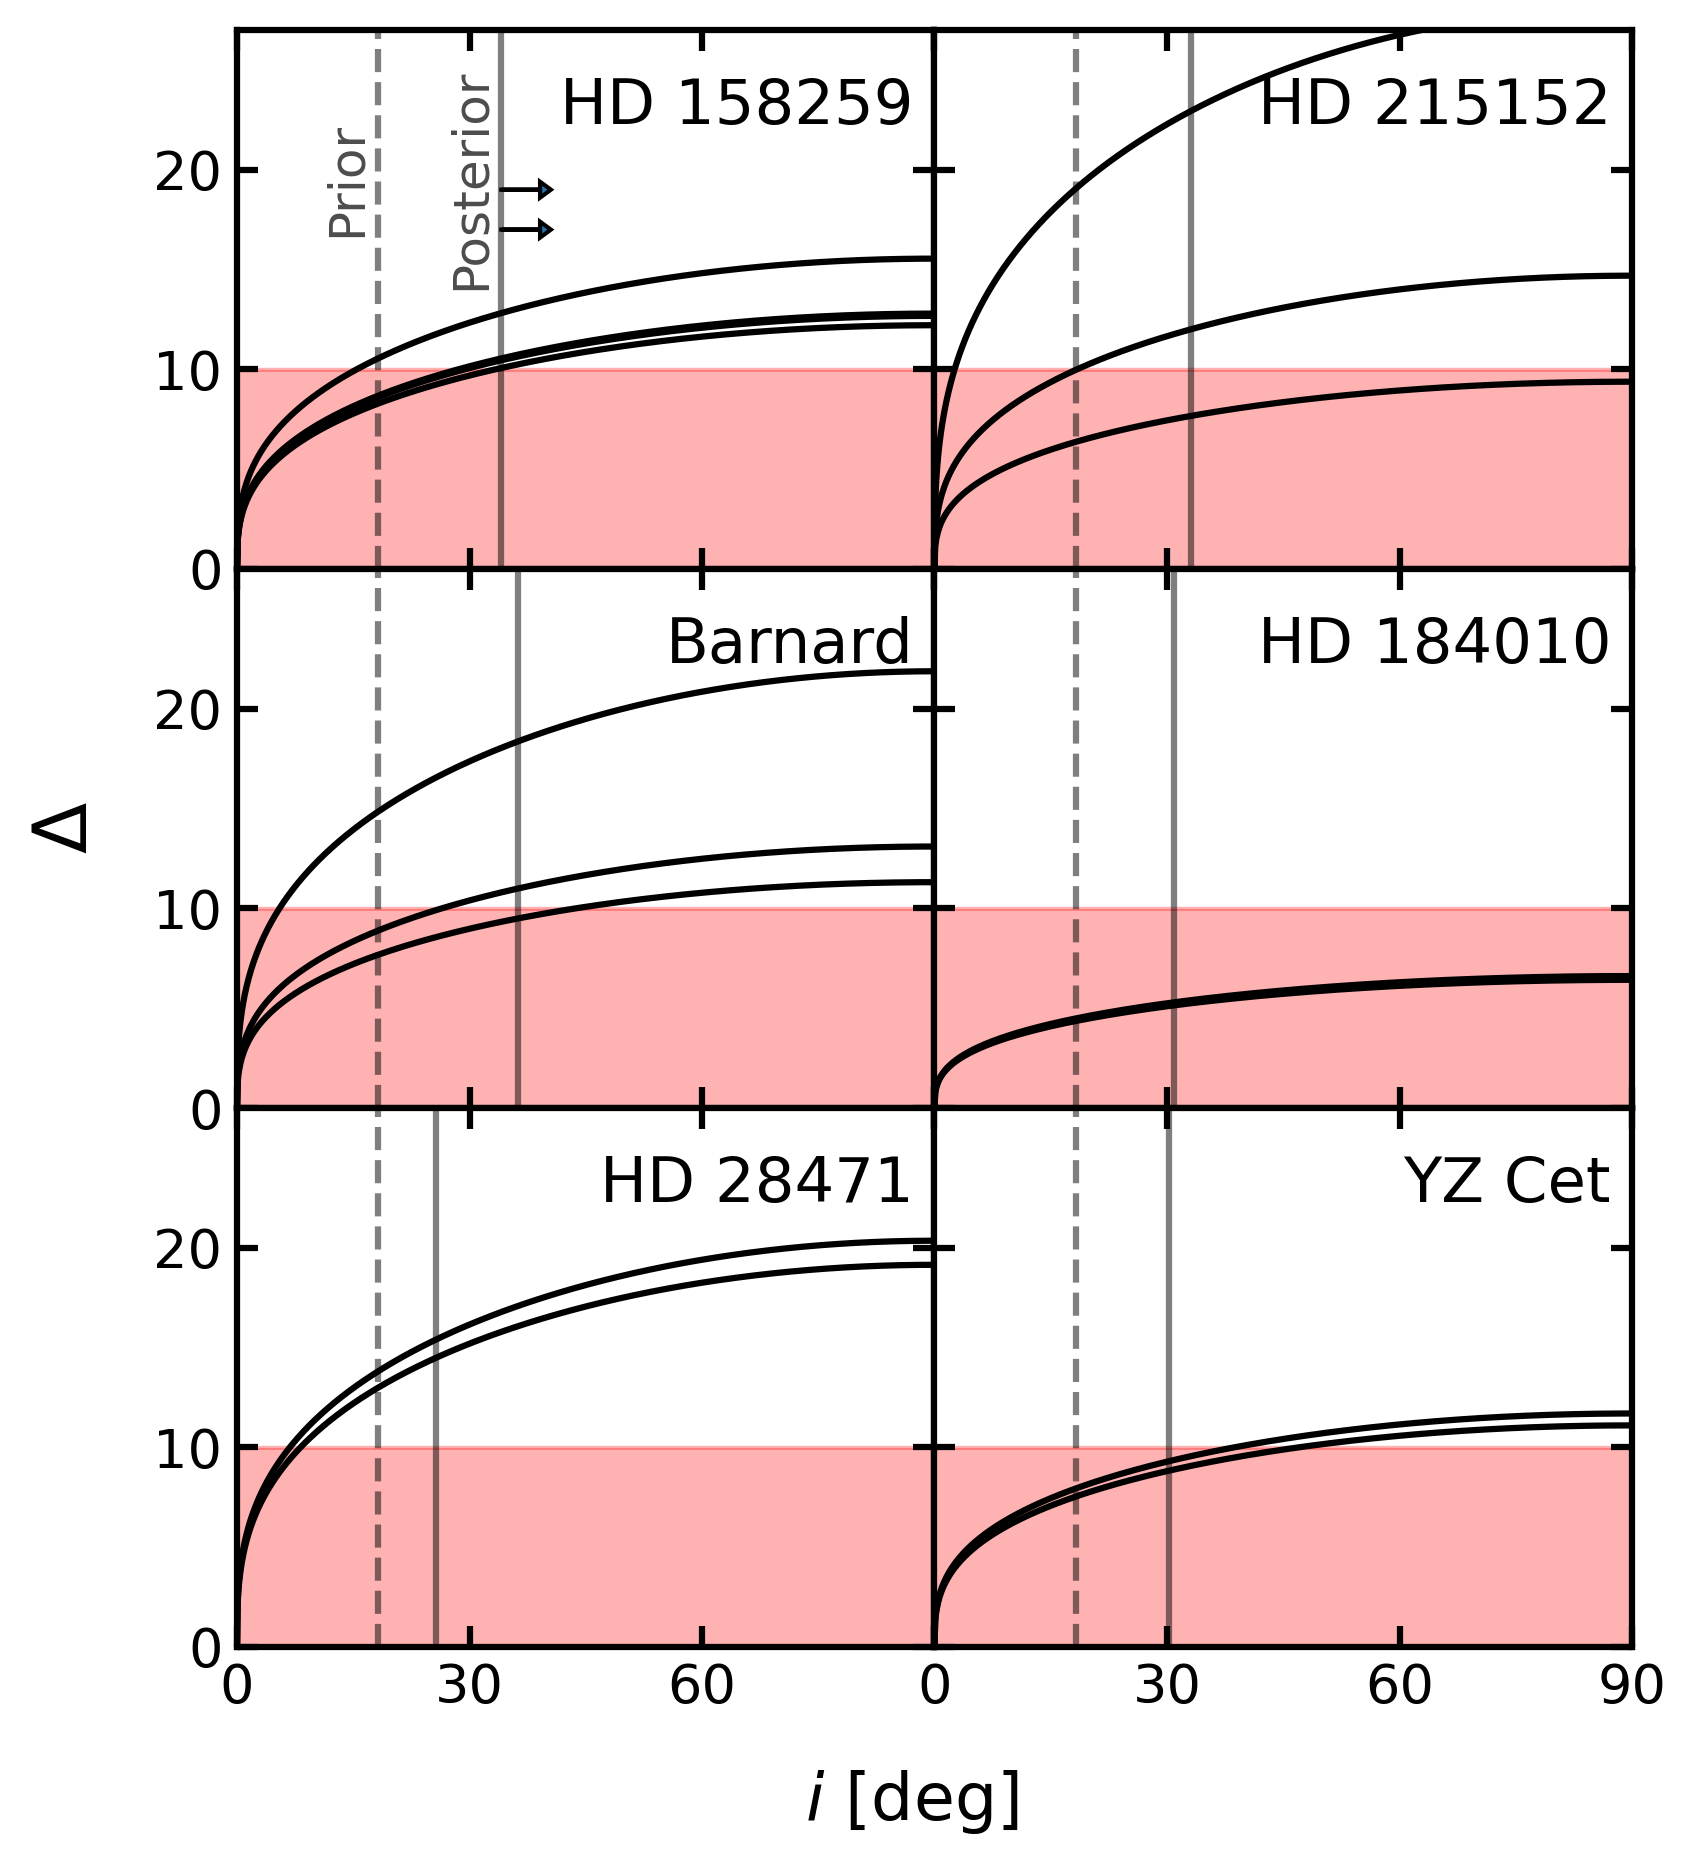
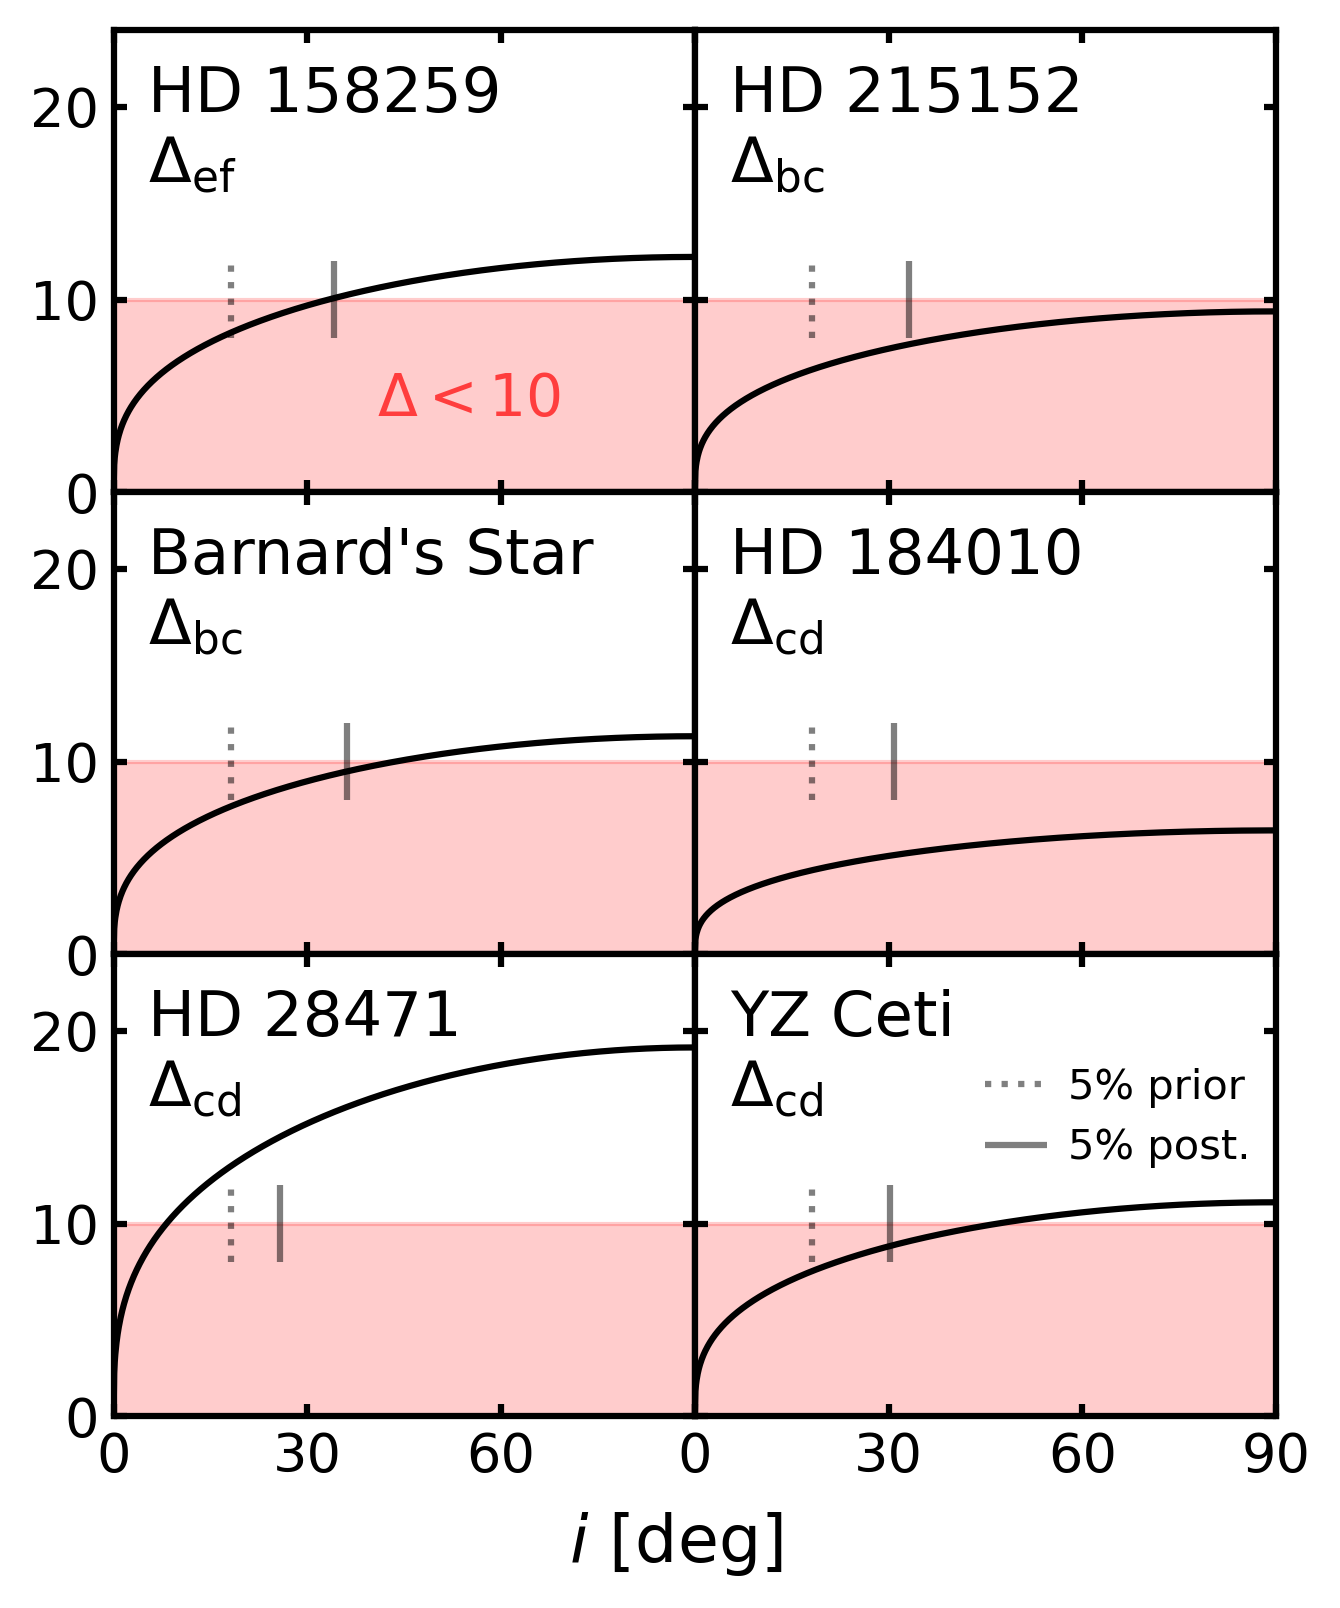
Tweak Hill stability plot

diff --git a/scripts/figs/plot_hillstability.py b/scripts/figs/plot_hillstability.py
@@ -81,12 +81,21 @@ def main():
     print("  Plotting...")
 
     fg, axs = plt.subplots(
-        3, 2, figsize=(6, 7), gridspec_kw={"hspace": 0.0, "wspace": 0.0}
+        3, 2, figsize=(5, 6), gridspec_kw={"hspace": 0.0, "wspace": 0.0}
     )
 
     i_deg = np.linspace(0, 90, 1000)
     sini_1_3 = np.sin(np.radians(i_deg)) ** (1 / 3)
-
+    Y_MAX = 24
+    TITLES = [
+        "HD 158259",
+        "HD 215152",
+        "Barnard's Star",
+        "HD 184010",
+        "HD 28471",
+        "YZ Ceti",
+    ]
+    TITLE_DICT = dict(zip(SYSTEMS, TITLES))
     for i, system in enumerate(SYSTEMS):
         ax = axs.flatten()[i]
         system_data = planets_data[planets_data["hostname"] == system]
@@ -97,27 +106,41 @@ def main():
         p_day = system_data["pl_orbper"].values
         a_au = (p_day / 365.25) ** (2 / 3) * (m_star / M_SUN) ** (1 / 3)
 
-        for (a1, a2), (m1, m2) in zip(
-            zip(a_au[:-1], a_au[1:]), zip(m_min[:-1], m_min[1:])
+        for n, ((a1, a2), (m1, m2)) in enumerate(
+            zip(zip(a_au[:-1], a_au[1:]), zip(m_min[:-1], m_min[1:]))
         ):
+            if n == 0:
+                delta_min = np.inf
+                closest_pair = (0, 1)
             Delta = Delta_factor(a1, a2, m1, m2, m_star)
-            ax.plot(i_deg, Delta * sini_1_3, color="k", lw=1.5)
+            if Delta < delta_min:
+                delta_min = Delta
+                closest_pair = (n, n + 1)
+
+        closest_planets = "".join(
+            [system_data.iloc[p].pl_name[-1] for p in list(closest_pair)]
+        )
+        title = TITLE_DICT[system] + "\n" + f"$\\Delta_{{\\rm {closest_planets}}}$"
+
+        ax.plot(i_deg, delta_min * sini_1_3, color="k", lw=1.5)
 
         ax.set_xlim(0, 90)
         ax.set_xticks([0, 30, 60, 90])
         ax.set_xticklabels([])
-        ax.set_ylim(0, 27)
+        ax.set_ylim(0, Y_MAX)
         ax.set_yticks([0, 10, 20])
 
-        # ax.axhline(10, color="k", ls="--", lw=1.5)
-        ax.fill_between(i_deg, 0, 10, color="r", alpha=0.3)
+        ax.fill_between(i_deg, 0, 10, color="r", alpha=0.2)
 
         inclination_limit = inclinations_5pc[system]
-        ax.vlines(inclination_limit, 0, 27, color="k", lw=1.5, alpha=0.5)
-        ax.vlines(PRIOR_5PC, 0, 27, color="k", ls="--", lw=1.5, alpha=0.5)
+        ax.vlines(
+            PRIOR_5PC, 8, 12, color="k", ls=":", lw=1.5, alpha=0.5, label="5% prior"
+        )
+        ax.vlines(
+            inclination_limit, 8, 12, color="k", lw=1.5, alpha=0.5, label="5% post."
+        )
 
-        title = system if system != "Barnard's star" else "Barnard"
-        ax.set_title(title, fontsize=15, loc="right", x=0.97, y=0.78)
+        ax.set_title(title, fontsize=15, ha="left", va="top", x=0.06, y=0.87)
 
     axs[-1, 0].set_xticks([0, 30, 60, 90], labels=["0", "30", "60", ""], fontsize=14)
     axs[-1, 1].set_xticks([0, 30, 60, 90], labels=["0", "30", "60", "90"], fontsize=14)
@@ -126,27 +149,32 @@ def main():
 
     for ax in axs.flatten():
         ax.tick_params(
-            length=5, labelsize=13, width=1.5, direction="in", top=True, right=True
+            length=3, labelsize=13, width=1.5, direction="in", top=True, right=True
         )
         for spine in ax.spines.values():
             spine.set_linewidth(1.5)
 
     # Label CINEMAS limits
-    ax = axs[0, 0]
-    ax.annotate(
-        "Posterior", xy=(27, 19.5), va="center", fontsize=12, rotation=90, alpha=0.7
+    axs[-1, -1].legend(
+        loc=[0.47, 0.5],
+        fontsize=10,
+        frameon=False,
+        handlelength=1.5,
+        handletextpad=0.5,
     )
-    ax.annotate(
-        "Prior", xy=(11, 19.5), va="center", fontsize=12, rotation=90, alpha=0.7
+
+    # Label Chambers+96 limit
+    axs[0, 0].annotate(
+        "$\\Delta < 10$",
+        (55, 4.8),
+        fontsize=14,
+        va="center",
+        ha="center",
+        color="r",
+        alpha=0.7,
     )
-    for y in [17, 19]:
-        # Short rightwards arrow, from x=lower limit for HD 158259
-        ax.arrow(
-            inclinations_5pc["HD 158259"], y, 5, 0, head_width=0.8, head_length=1.4
-        )
 
     fg.supxlabel("$i$ [deg]", fontsize=16, y=0.02)
-    fg.supylabel("$\\Delta$", fontsize=18, x=0.01)
 
     fg.savefig(output_path, dpi=300, bbox_inches="tight")
 
